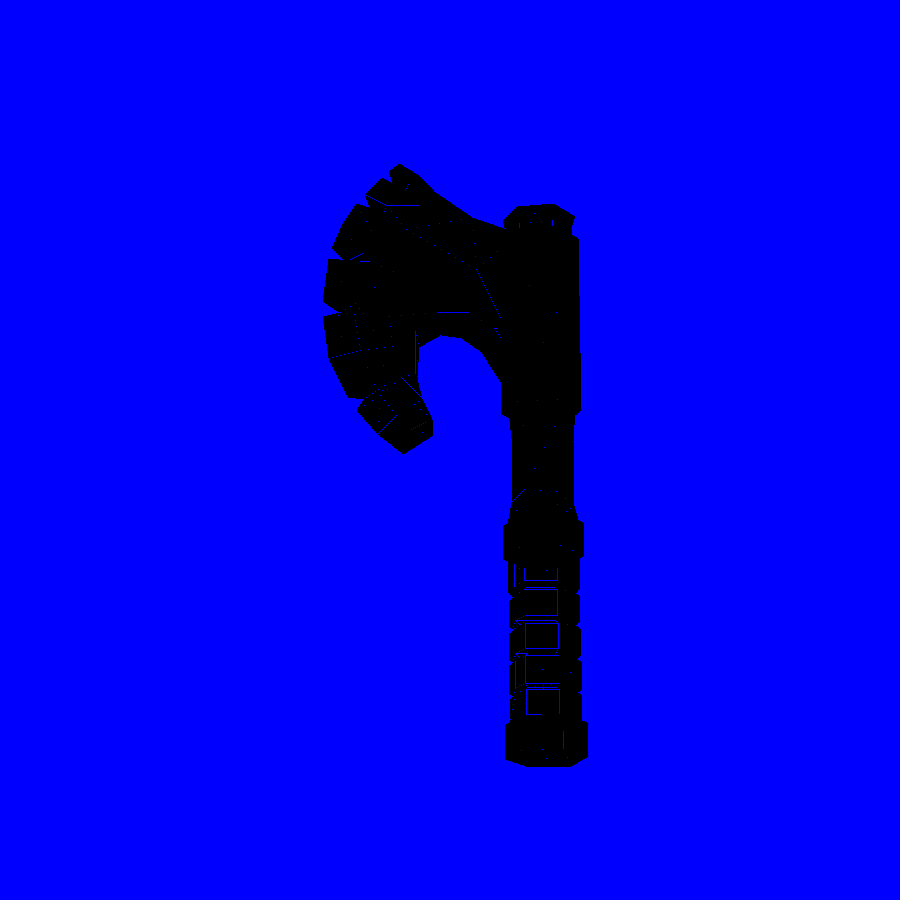
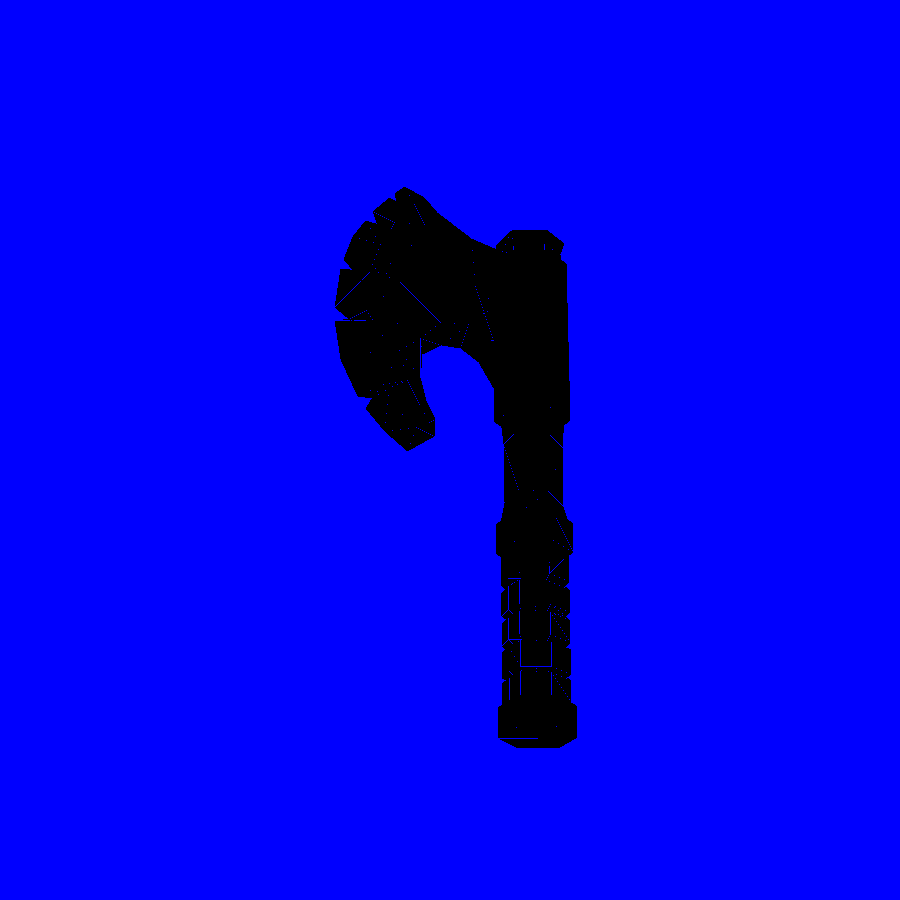
Add files via upload

diff --git a/canvas.py b/canvas.py
@@ -8,29 +8,39 @@ Created on Mon Oct 18 21:56:58 2021
 from PIL import Image,ImageColor
 import numpy as np
 import random
+from numpy import array as ar
 
 
 class triangle:
-    def __init__(self,a=np.zeros(2),b=np.zeros(2),c=np.zeros(2)):
-        self.a=a
-        self.b=b
-        self.c=c
-        self.vec1=a-c
-        self.vec2=b-a
-        self.vec3=c-b
+    def __init__(self,a=np.zeros(3),b=np.zeros(3),c=np.zeros(3)):
+        self.a=ar([a[0],a[1]])
+        self.b=ar([b[0],b[1]])
+        self.c=ar([c[0],c[1]])
+        self.vec1=self.a-self.c
+        self.vec2=self.b-self.a
+        self.vec3=self.c-self.b
         self.xmin=min(a[0],b[0],c[0])
         self.xmax=max(a[0],b[0],c[0])
         self.ymin=min(a[1],b[1],c[1])
         self.ymax=max(a[1],b[1],c[1])
         
+        self.z1=a[2]
+        self.z2=b[2]
+        self.z3=c[2]
+        
+        self.canvas=canvas
+        
     def get_dots(self):
         dots=[]
+        colors=[]
         for i in range(self.xmin,self.xmax):
             for j in range(self.ymin,self.ymax):
                 vec=np.array([i,j])
                 if np.cross(vec-self.a,self.vec2)>0 and np.cross(vec-self.b,self.vec3)>0 and np.cross(vec-self.c,self.vec1)>0:
                     dots.append((i,j))
-        return dots
+                    colors.append((0,int(255*i/self.xmax),int(255*j/self.ymax),225))
+        return dots,colors      
+
                     
                 
 
@@ -40,26 +50,31 @@ class canvas:
         self.img=Image.new("RGBA",(width,height),(0,0,0,0))
         
     def draw(self,dots,color):
-        color=ImageColor.getrgb(color)
-        for dot in dots:
-            self.img.putpixel(dot, color)
+        if isinstance(color,str): color=ImageColor.getrgb(color)
+        for i,dot in enumerate(dots):
+            self.img.putpixel(dots[i], color[i])
+                
     
-    def put_blue(self):
-        dots=[]         
+    def put_yellow(self):      
         for i in range(900):
             for j in range(900):
-                dots.append((i,j))
-        self.draw(dots, "blue")
+                self.img.putpixel((j,i),(125,255,0,int(100+100*i/900)))
         
     def put_default_tri(self):
-        a=np.array([random.randint(0,400),random.randint(0,400)])
-        b=np.array([random.randint(700,900),random.randint(700,900)])
-        c=np.array([random.randint(700,900),random.randint(300,600)])
+        a=np.array([random.randint(0,400),random.randint(0,400),1])
+        b=np.array([random.randint(700,900),random.randint(700,900),1])
+        c=np.array([random.randint(700,900),random.randint(300,600),1])
         print(a,b,c)
-        self.draw(triangle(a,b,c).get_dots(),"green")
+        dots,colors=triangle(a,b,c).get_dots()
+        self.draw(dots,colors)
         
 
-
+if __name__=="__main__":
+    k=canvas()
+    k.put_yellow()
+    k.put_default_tri()
+    k.img.show()
+    
         
         
         

diff --git a/render.py b/render.py
@@ -6,7 +6,7 @@ Created on Mon Oct 18 22:24:17 2021
 """
 import numpy as np
 import canvas
-from canvas import triangle
+from drawkit import triangle
 from numpy import array as ar
 import model
 
@@ -35,36 +35,48 @@ def viewport_transformation(height=900,width=900):#P142视口变换
     Mvp=ar([[0.5*width,0,0,0.5*width-0.5],[0,0.5*height,0,0.5*height-0.5],[0,0,1,0],[0,0,0,1]])
     return Mvp
 
-def z_buffer(screen_vertices, world_vertices, model, canvas):
+def z_buffer(screen_vertices, world_vertices,model, canvas):
+    buff=np.zeros((900,900))
+    for i in range(900):
+        for j in range(900):
+            buff[i][j]=1000#初始化深度无限远
     for i in model.indices:
-        stri=ar([screen_vertices[idx-1] for idx in i])
-        print(stri)
-        dots=triangle(stri[0],stri[1],stri[2]).get_dots()
-        canvas.draw(dots,"black")
+        scr_tri=ar([screen_vertices[idx-1] for idx in i])
+        
+        dots,buff=triangle(scr_tri[0],scr_tri[1],scr_tri[2],buff).get_dots()
+        for dot in dots:
+            canvas.img.putpixel(dot, (255,0,0,255))
+    
+    for i in range(900):
+        for j in range(900):
+            if buff[i][j]!=1000:
+                canvas.img.putpixel((i,j), (255,0,0,round(55+(buff[i][j]-18)*200)))
+            
                
 def render(model,height=900,width=900,filename=None):
     
     Mper=perspective_transformation(0.5,-0.5,-0.5,0.5,3,1000)
-    Mcam=camera_transformation(ar([-4,-4,10]), ar([0,0,0]))
+    Mcam=camera_transformation(ar([-8,-5,9]), ar([0,0,0]))
     Mvp=viewport_transformation()
        
     world_vertices=model.vertices
     M=np.dot(np.dot(Mvp,Mper),Mcam)#rendering pipeline P153/p141(7.1) 暂时忽略mmodeling transformation,to be added later
     
     screen_vertices=[]
+
     for v in model.vertices:
-        x,y,_,w=np.dot(M,v)
-        screen_vertices.append([int(x/w),int(y/w)])
+        x,y,z,w=np.dot(M,v)
+        screen_vertices.append([int(x/w),int(y/w),int(z)])
   
-    return screen_vertices,world_vertices 
+    return screen_vertices,world_vertices
 
 bk=canvas.canvas()
-bk.put_blue()
+bk.put_yellow()
 m=model.Model("model/axe.obj")
 screen_vertices,world_vertices=render(m)
 z_buffer(screen_vertices,world_vertices,m,bk)
 bk.img.show()
-bk.img.save("results/first.png")
+bk.img.save("results/third.png")
 
     
 

diff --git a/drawkit.py b/drawkit.py
@@ -1,0 +1,41 @@
+# -*- coding: utf-8 -*-
+"""
+Created on Thu Oct 28 10:36:19 2021
+
+@author: sayori
+"""
+import numpy as np
+from numpy import array as ar
+
+class triangle:
+    def __init__(self,a=np.zeros(3),b=np.zeros(3),c=np.zeros(3),buff=np.zeros((900,900))):#分别传入屏幕坐标的三个点和buffer
+        self.a=ar([a[0],a[1]])
+        self.b=ar([b[0],b[1]])
+        self.c=ar([c[0],c[1]])
+        self.vec1=self.a-self.c
+        self.vec2=self.b-self.a
+        self.vec3=self.c-self.b
+        self.xmin=min(a[0],b[0],c[0])
+        self.xmax=max(a[0],b[0],c[0])
+        self.ymin=min(a[1],b[1],c[1])
+        self.ymax=max(a[1],b[1],c[1])
+        
+        
+        self.z1=a[2]
+        self.z2=b[2]
+        self.z3=c[2]
+        
+        self.buff=buff
+          
+    def get_dots(self):
+        dots=[]
+        for i in range(self.xmin,self.xmax):
+            for j in range(self.ymin,self.ymax):
+                vec=np.array([i,j])
+                if np.cross(vec-self.a,self.vec2)>0 and np.cross(vec-self.b,self.vec3)>0 and np.cross(vec-self.c,self.vec1)>0:
+                    alpha,beta=np.dot(ar([i-self.c[0],j-self.c[1]]),np.linalg.inv(ar([[self.a[0]-self.c[0],self.a[1]-self.c[1]],[self.b[0]-self.c[0],self.b[1]-self.c[1]]])))#333333333333333333333333
+                    depth=alpha*self.z1+beta*self.z2+(1-alpha-beta)*self.z3
+                    if depth<self.buff[i][j]:
+                        dots.append((i,j))
+                        self.buff[i][j]=depth
+        return dots,self.buff

diff --git a/model.py b/model.py
@@ -8,7 +8,7 @@ class Model:
         self.indices = []#对应哪三个顶点构成一个面，从1开始
 
 
-        with open(filename) as f:
+        with open(filename,encoding='utf-8') as f:
             for line in f:
                 if line.startswith("v "):
                     x, y, z = [float(d) for d in line.strip("v").strip().split(" ")]
